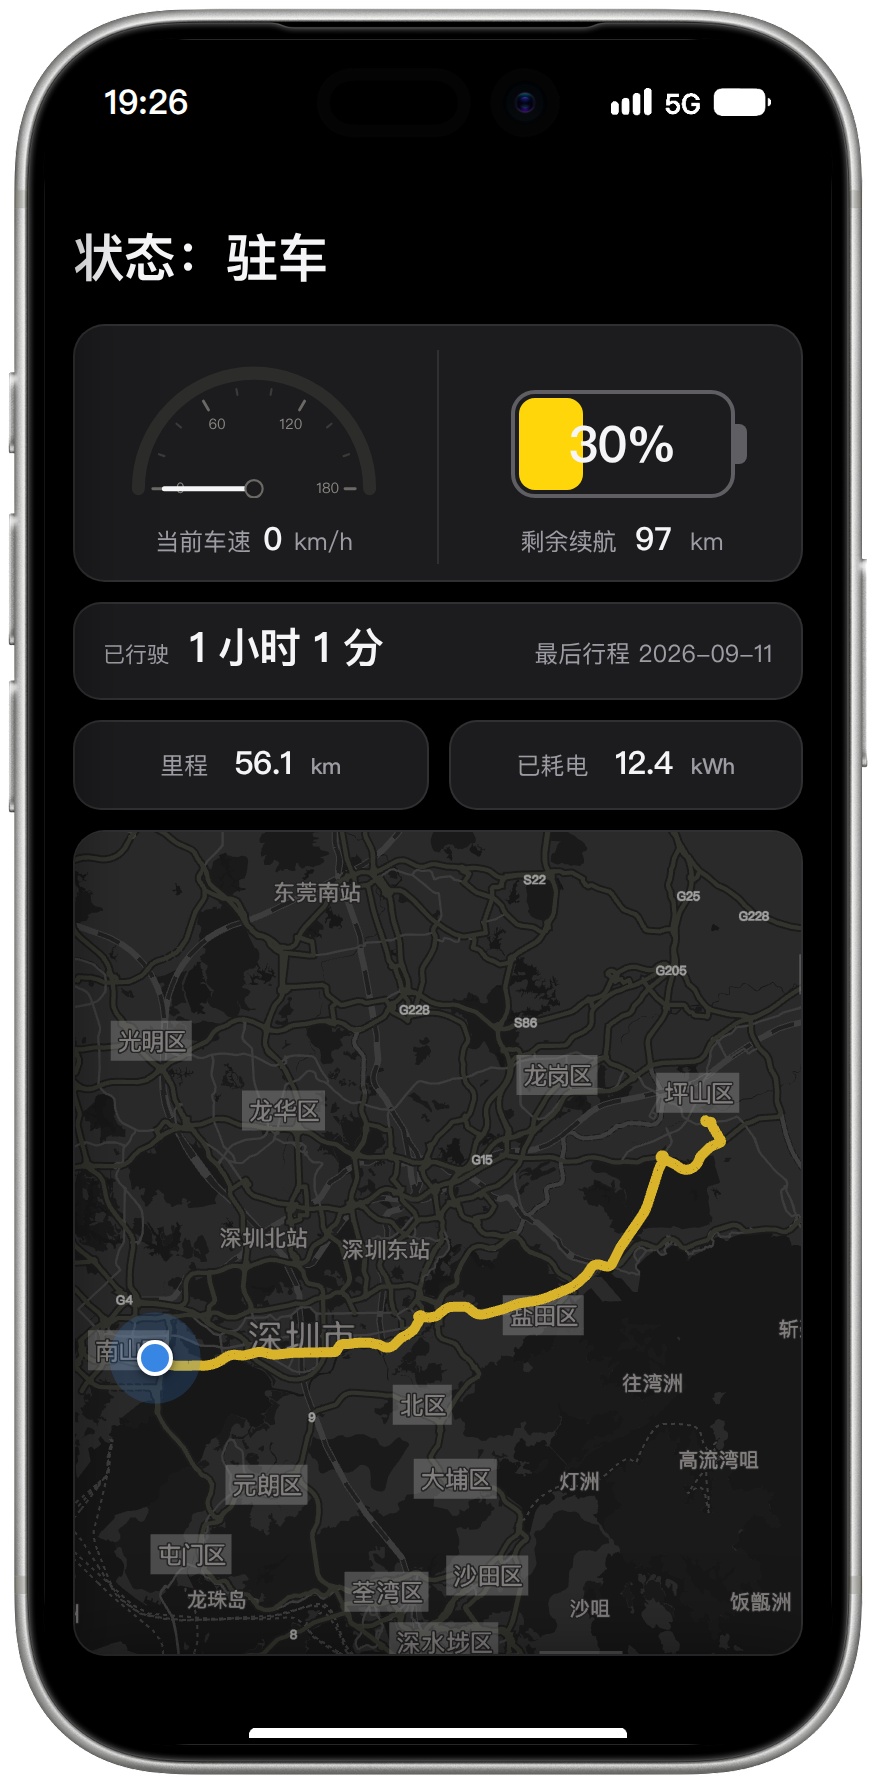
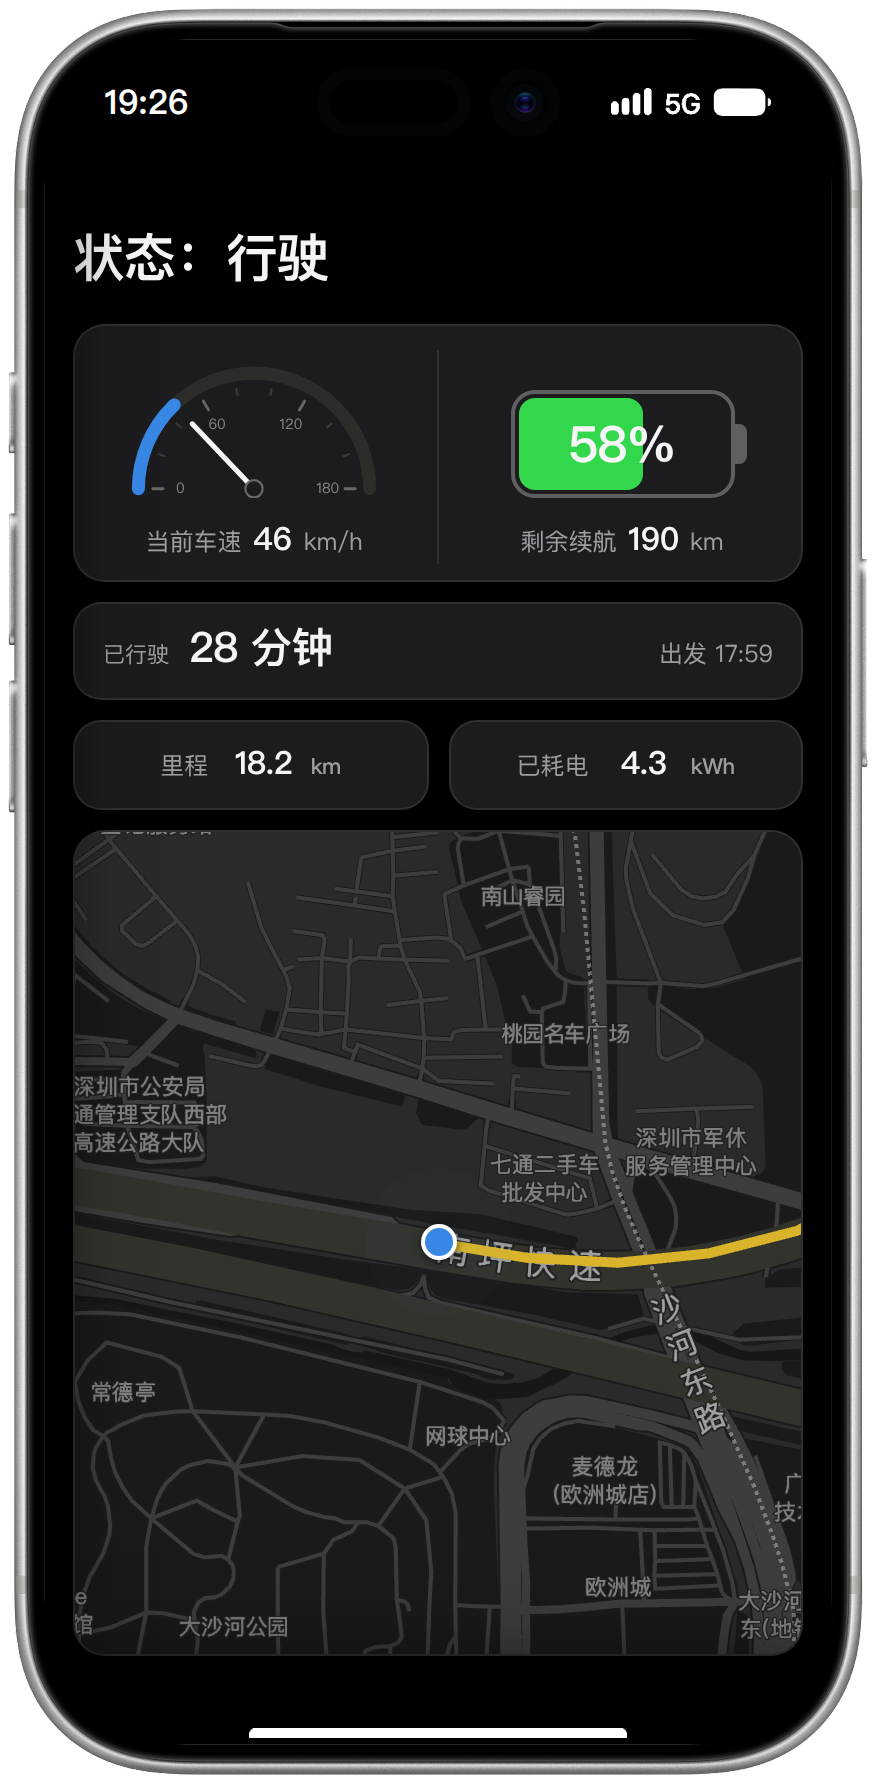
状态截图换行驶中 + 架构图退役 mermaid 换手绘 SVG: 种子服务新增 LIVE_DRIVE=1 起服挂一段「进行中」演示行程 (借华为→家既有轨迹的前 3/4 —— 整段重挂会把车点落在原终点家的锚点, 驾驶态停在小区就穿帮; 哨兵 id 99999 每次起服先清旧再挂新, 位置点止于 40s 前落在 live_status 十分钟新鲜度内, 不带该变量即回驻车态, 行程列表/统计/足迹只认已结束行程零污染), 状态页截图按行驶口径重拍 (蓝点开在半路 + 速度色轨迹 + 仪表 + 已开 27 分钟), README 图注跟上; 架构图 docs/architecture.svg 

diff --git a/shots/seed_server.py b/shots/seed_server.py
@@ -13,6 +13,8 @@ admin/shot-pass-123。打印 READY 后存活。
 环境: SHOTLAB 工作目录 (默认 ~/shotlab; 种子库/缓存落 SHOTLAB/tesla/)
       MYHOME_ENV 根仓 .env 路径 (取高德 Key 种进演示设置行, 默认根仓 .env)
       MYHOME_PROD_DB 生产 mytesla.db (只读取 amap_web_key 拟合道路用)
+      LIVE_DRIVE=1 状态页挂一段「进行中」演示行程 (拍行驶中截图用,
+      见 refresh_live_drive; 默认不挂, 状态页是驻车态)
 注意: 首次跑要对高德做 ~34 段驾车规划 (真实 Web 服务 Key, 几分钟 + 要网);
 种子库一次成型 —— teslamate.db 已在时整库复用, 免重规划免重播种直接起服
 (重建: 删 SHOTLAB 库或 SHOT_RESEED=1)。绝不动子仓 data/ 下的生产缓存
@@ -21,7 +23,7 @@ import os
 import sys
 import threading
 import time
-from datetime import datetime, timedelta
+from datetime import datetime, timedelta, timezone
 from pathlib import Path
 
 HERE = Path(__file__).resolve().parent
@@ -82,6 +84,63 @@ RESEED = bool(os.environ.get("SHOT_RESEED")) or not DB_PATH.exists()
 database.init_engine(DB)
 Base.metadata.create_all(database.engine())
 
+LIVE_ID = 99999     # 「进行中」演示行程的哨兵 id (种子链 ~972, 留足余量)
+
+
+def refresh_live_drive():
+    """状态页「行驶中」演示行程 (2026-10-09 用户点名「当前状态的截图最好
+    是行驶中的截图」): 种子行程链全部已结束 (链尾 2026-10-06), 默认起服
+    状态页是驻车态。LIVE_DRIVE=1 时借一段华为→家的既有轨迹重挂一条
+    「进行中」行程 —— end_date 空, 位置点止于 40s 前, 落在 live_status
+    的 10 分钟新鲜度判据内, 状态页即入驾驶态 (蓝点 + 速度色轨迹 + 仪表)。
+    每次起服先清上一轮的演示行程: 默认起服不带它, 而行程列表/统计/足迹
+    只认已结束行程, 对其它视图零污染。"""
+    from sqlalchemy import delete, select
+
+    from app.tesla.models import Drive, Position
+    from app.tesla.roads_geom import wgs_km
+    with database.session_factory()() as mir:  # pylint: disable=not-callable
+        mir.execute(delete(Position).where(Position.drive_id == LIVE_ID))
+        mir.execute(delete(Drive).where(Drive.id == LIVE_ID))
+        if not os.environ.get("LIVE_DRIVE"):
+            mir.commit()
+            return
+        src_id = mir.execute(
+            select(Drive.id).where(Drive.start_address_id == 2,
+                                   Drive.end_address_id == 1)
+            .order_by(Drive.start_date.desc()).limit(1)).scalar_one_or_none()
+        assert src_id, "找不到华为→家的种子行程 (重播种: SHOT_RESEED=1)"
+        src = mir.scalars(select(Position).where(
+            Position.drive_id == src_id).order_by(Position.date)).all()
+        # 车要「开在半路」: 只借前 3/4 的点 —— 原样全量重挂会把当前位置
+        # 落在原行程终点 (家的锚点), 驾驶态的车停在小区里就穿了帮
+        src = src[:max(2, round(len(src) * 0.75))]
+        span = (src[-1].date - src[0].date).total_seconds()
+        end = (datetime.now(timezone.utc).replace(tzinfo=None)
+               - timedelta(seconds=40))          # 位置点止于 40s 前 (新鲜度内)
+        rows, cum = [], 0.0
+        for i, p in enumerate(src):
+            if i:
+                cum += wgs_km((src[i - 1].longitude, src[i - 1].latitude),
+                              (p.longitude, p.latitude))
+            f = i / (len(src) - 1)               # 沿程进度 → 电量/续航内插
+            rows.append({
+                "date": end - timedelta(seconds=span * (1 - f)),
+                "longitude": p.longitude, "latitude": p.latitude,
+                "speed": p.speed, "power": p.power,
+                "battery_level": round(63 - 5 * f),
+                "rated_battery_range_km": round(209 - 19 * f, 1),
+                "odometer": round(52341.2 + cum, 3)})
+        mir.add(Drive(id=LIVE_ID, car_id=1, start_date=rows[0]["date"],
+                      end_date=None,
+                      speed_max=round(max(r["speed"] for r in rows)),
+                      start_address_id=2))
+        mir.add_all(Position(drive_id=LIVE_ID, car_id=1, **r) for r in rows)
+        mir.commit()
+        print(f"live drive: 华为→家进行中, {len(rows)} 点 {cum:.1f}km "
+              f"已开 {span / 60:.0f} 分钟 (id {LIVE_ID})", flush=True)
+
+
 if not RESEED:
     # 种子库一次成型, 整库复用 (2026-10-09 用户点名「搞一个虚假的
     # teslamate db, 每次都用这个截图」): 已在时免重规划免重播种直接起服;
@@ -89,6 +148,7 @@ if not RESEED:
     # SHOT_RESEED=1 重来
     print(f"种子库已就位 {DB_PATH}, 免重播种直接起服 "
           "(重建: 删 SHOTLAB 库或 SHOT_RESEED=1)", flush=True)
+    refresh_live_drive()
     print("READY", flush=True)
     while thread.is_alive():
         time.sleep(1)
@@ -513,6 +573,7 @@ with database.own_session_factory()() as own:  # pylint: disable=not-callable
           f"妈妈标注 {sum(1 for i in range(1, did + 1) if i % 3 == 0)} 程, "
           f"{len(TRIP_GROUPS)} 分组, app_settings 演示行", flush=True)
 
+refresh_live_drive()
 print("READY", flush=True)
 while thread.is_alive():
     time.sleep(1)

diff --git a/shots/shoot.py b/shots/shoot.py
@@ -119,9 +119,10 @@ READY = {
     "changelog": "document.querySelectorAll('#cl-list > *').length > 0 "
                  "&& document.querySelector('#loading').hidden",
 }
-# 各视图收尾缓冲 (地图/图表类要等贴图和 canvas 动画)
+# 各视图收尾缓冲 (地图/图表类要等贴图和 canvas 动画); live 是驾驶态地图
+# (LIVE_DRIVE=1 起服): 蓝点 + 速度色轨迹 + 瓦片, 与行程弹层同款缓冲
 EXTRA = {"charging": 3000, "chargemap": 2500, "tripstats": 2000,
-         "stats": 2000, "battery": 1500}
+         "stats": 2000, "battery": 1500, "live": 3500}
 
 
 async def tesla_map(browser):

diff --git a/shots/README.md b/shots/README.md
@@ -28,7 +28,10 @@
 #    首次跑要对高德做 ~34 段驾车规划 (真实 Web 服务 Key, 几分钟 + 要网),
 #    种子库一次成型: teslamate.db 已在即整库复用直接起服
 #    (重建: 删 SHOTLAB 库或 SHOT_RESEED=1)。
-.venv/bin/python shots/seed_server.py 8901
+#    状态页要「行驶中」观感 (README 口径): LIVE_DRIVE=1 起服 —— 借一段
+#    华为→家的既有轨迹挂一条进行中行程 (每次起服先清旧再挂新, 起服不带
+#    该环境变量即回到驻车态, 其它视图零污染)。
+LIVE_DRIVE=1 .venv/bin/python shots/seed_server.py 8901
 
 # 2. 射手: 16 个视图各一张 (开场动画一律等收完; 足迹地图与行程弹层都是
 #    手动定格回放终帧的特例流程, 后者过滤词 sheet)。
@@ -46,7 +49,7 @@ LD_LIBRARY_PATH=... PYTHONPATH=<Pillow 所在> /tmp/pw-verify/bin/python shots/c
 
 | 文件 | 职责 |
 |---|---|
-| `seed_server.py` | 假数据实例: 充电 ~280 条跨 15 个月 (月度柱状图铺满 12 个月滑窗; 满充带额定续航采样, 331→322km 缓降喂电池健康曲线) + ~1000 程「一笔画」路网 (~两万公里, 近/中/远频次分层) + 双驾驶员 + 行程分组 + 地址坐标 (充电地图圆标) + 演示 app_settings (设置页回显) |
+| `seed_server.py` | 假数据实例: 充电 ~280 条跨 15 个月 (月度柱状图铺满 12 个月滑窗; 满充带额定续航采样, 331→322km 缓降喂电池健康曲线) + ~1000 程「一笔画」路网 (~两万公里, 近/中/远频次分层) + 双驾驶员 + 行程分组 + 地址坐标 (充电地图圆标) + 演示 app_settings (设置页回显); `LIVE_DRIVE=1` 时另挂一段华为→家「进行中」行程给状态页拍行驶观感 |
 | `shoot.py` | 16 视图射手: 每视图独立 context (localStorage 预置视图), 等数据锚点 + 动画收尾; 足迹地图与行程弹层 (深链直开 + skipAnim 定格) 是手动定格回放终帧的特例流程 |
 | `composite.py` | 官方 bezel 合成: 预乘缩放 (透明留白 RGB 不渗边) + 洞形蒙版 (方角内容出不了圆角开窗) + 底部 34px 安全区拉伸补齐 |
 | `undmg.py` | Apple dmg → PNG carver (解 UDIF blkx, carve 内嵌 PNG) |

diff --git a/README.md b/README.md
@@ -26,7 +26,7 @@
 
 <p align="center">
 <a name="shot-live"><img src="docs/screenshot-live.png" width="280" alt="状态 · My Tesla (演示数据)"></a>
-<br><b>状态</b> — 车停在哪、还剩多少电、还能跑多远, 打开即见
+<br><b>状态</b> — 车开到哪、还剩多少电、还能跑多远, 打开即见; 行驶中蓝点实时跟车
 </p>
 
 <p align="center">
@@ -82,19 +82,9 @@
 [docs.teslamate.org](https://docs.teslamate.org/))。My Tesla 只读它的
 PostgreSQL, 不往回写任何东西。数据链路:
 
-```mermaid
-%%{init: {"theme":"base","flowchart":{"curve":"basis","nodeSpacing":44,"rankSpacing":64},"themeVariables":{"fontSize":"14px","primaryColor":"#1b1b1e","primaryTextColor":"#f5f5f7","primaryBorderColor":"#4a4a4e","lineColor":"#8e8e93","edgeLabelBackground":"#1b1b1e","clusterBkg":"#111113","clusterBorder":"#3a3a3e"}}}%%
-flowchart LR
-    subgraph tmhost["🖥 TeslaMate 所在机器 · docker compose"]
-        tm["TeslaMate"] -- "行车数据落库" --> pg[("PostgreSQL<br/>.env 的 POSTGRES_*")]
-    end
-    car["🚗 特斯拉车辆"] -- "Tesla 账号" --> tm
-    web["📱 浏览器 / 手机"] --> app["My Tesla"]
-    app -. "只读查询 · 向导第二步填五项" .-> pg
-    app -- "地图瓦片 · 道路拟合" --> amap["🗺 高德开放平台"]
-    app -- "账号 · 设置 · Key" --> own[("自有 SQLite<br/>data/mytesla.db")]
-    style app fill:#e82127,stroke:#5a1a1c,stroke-width:1.5px,color:#ffffff
-```
+<p align="center">
+<a name="arch"><img src="docs/architecture.svg" width="800" alt="My Tesla 数据链路"></a>
+</p>
 
 首启向导第二步 (或之后的 设置 → 数据库) 要填的五项, 全部在 TeslaMate
 那台机器的 `docker-compose.yml` / `.env` 里:
